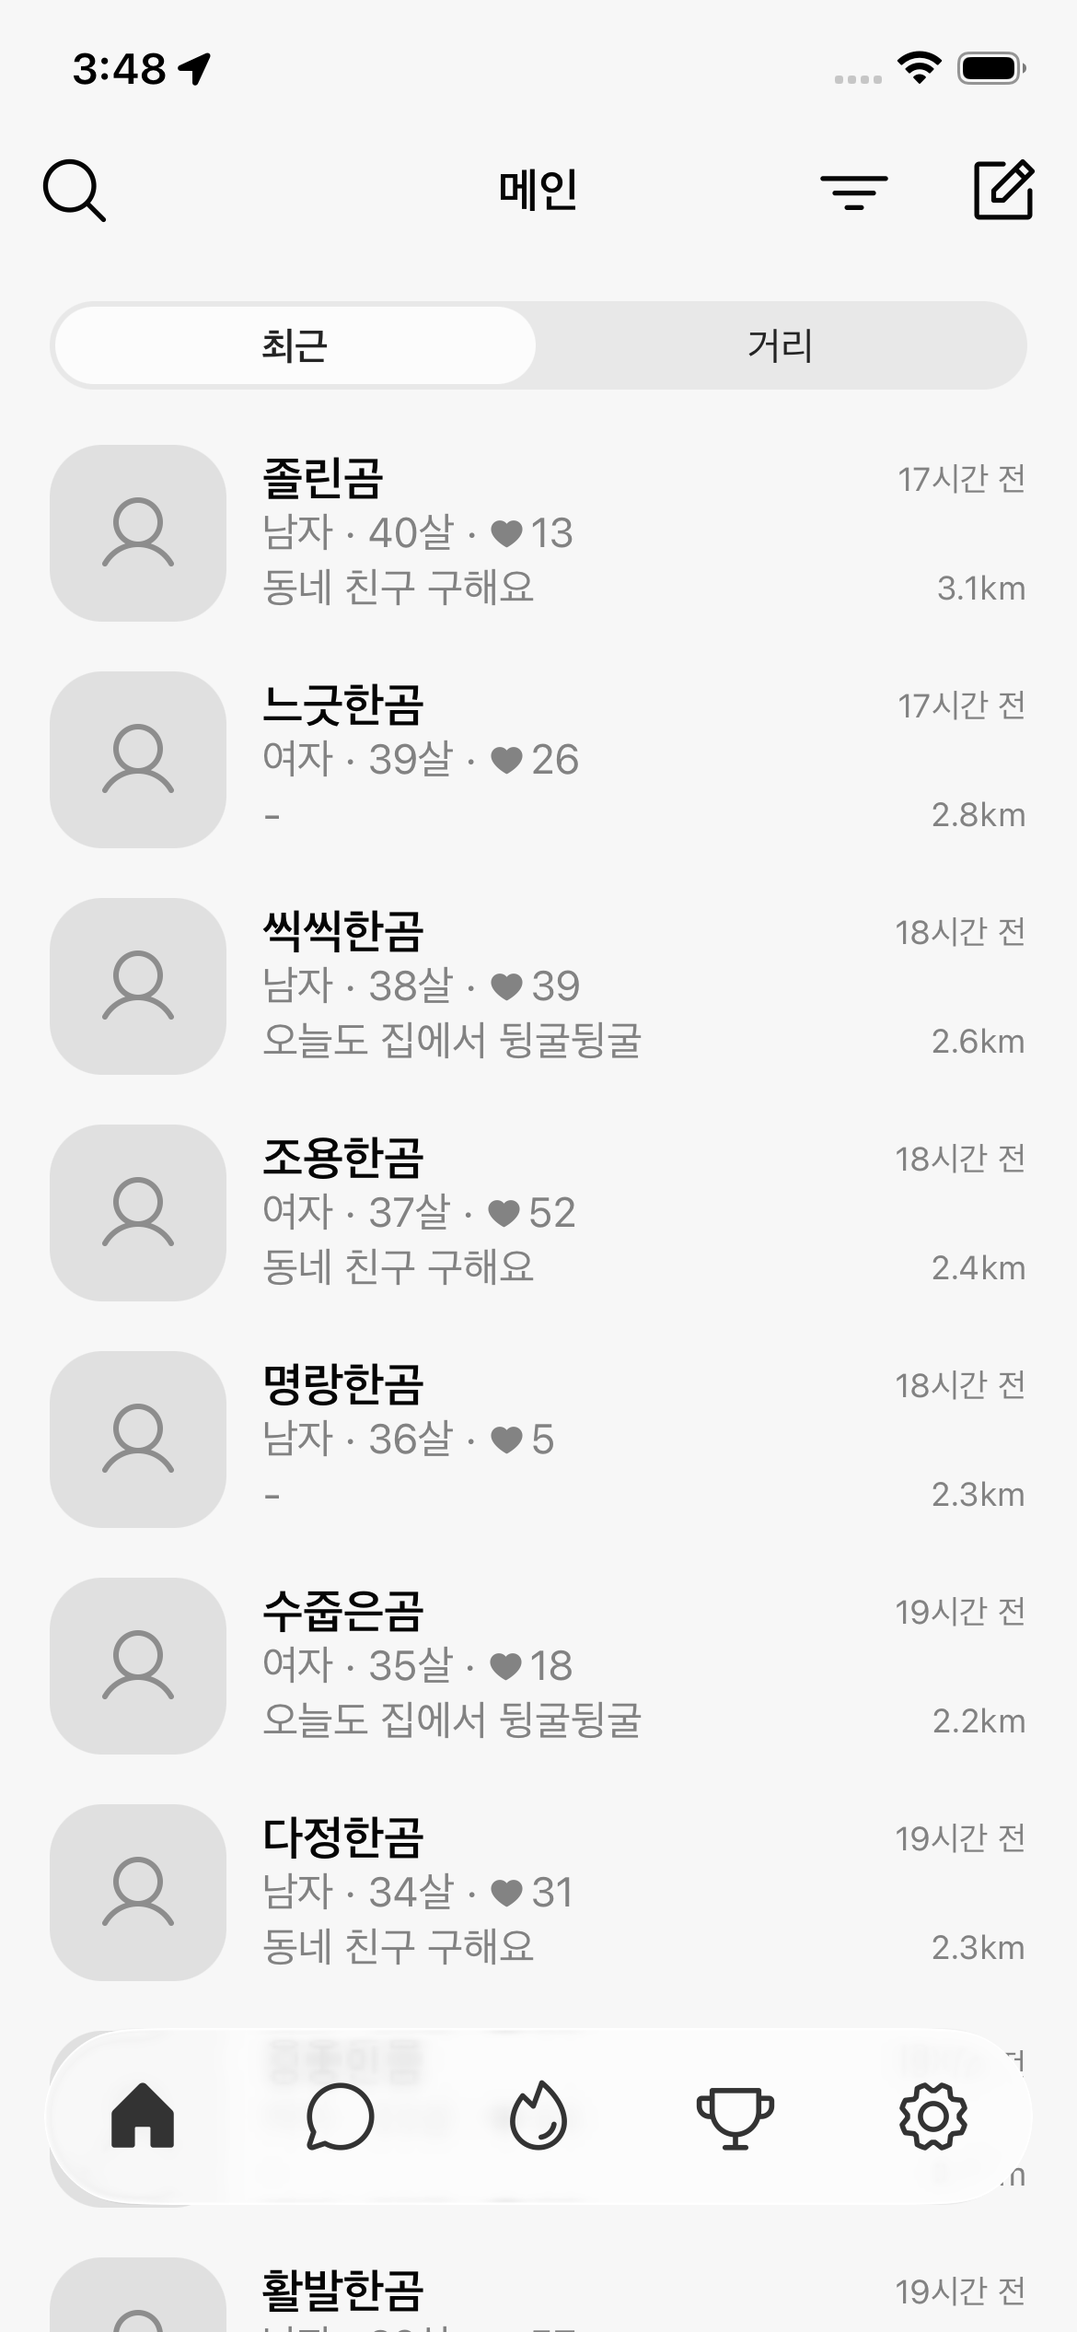
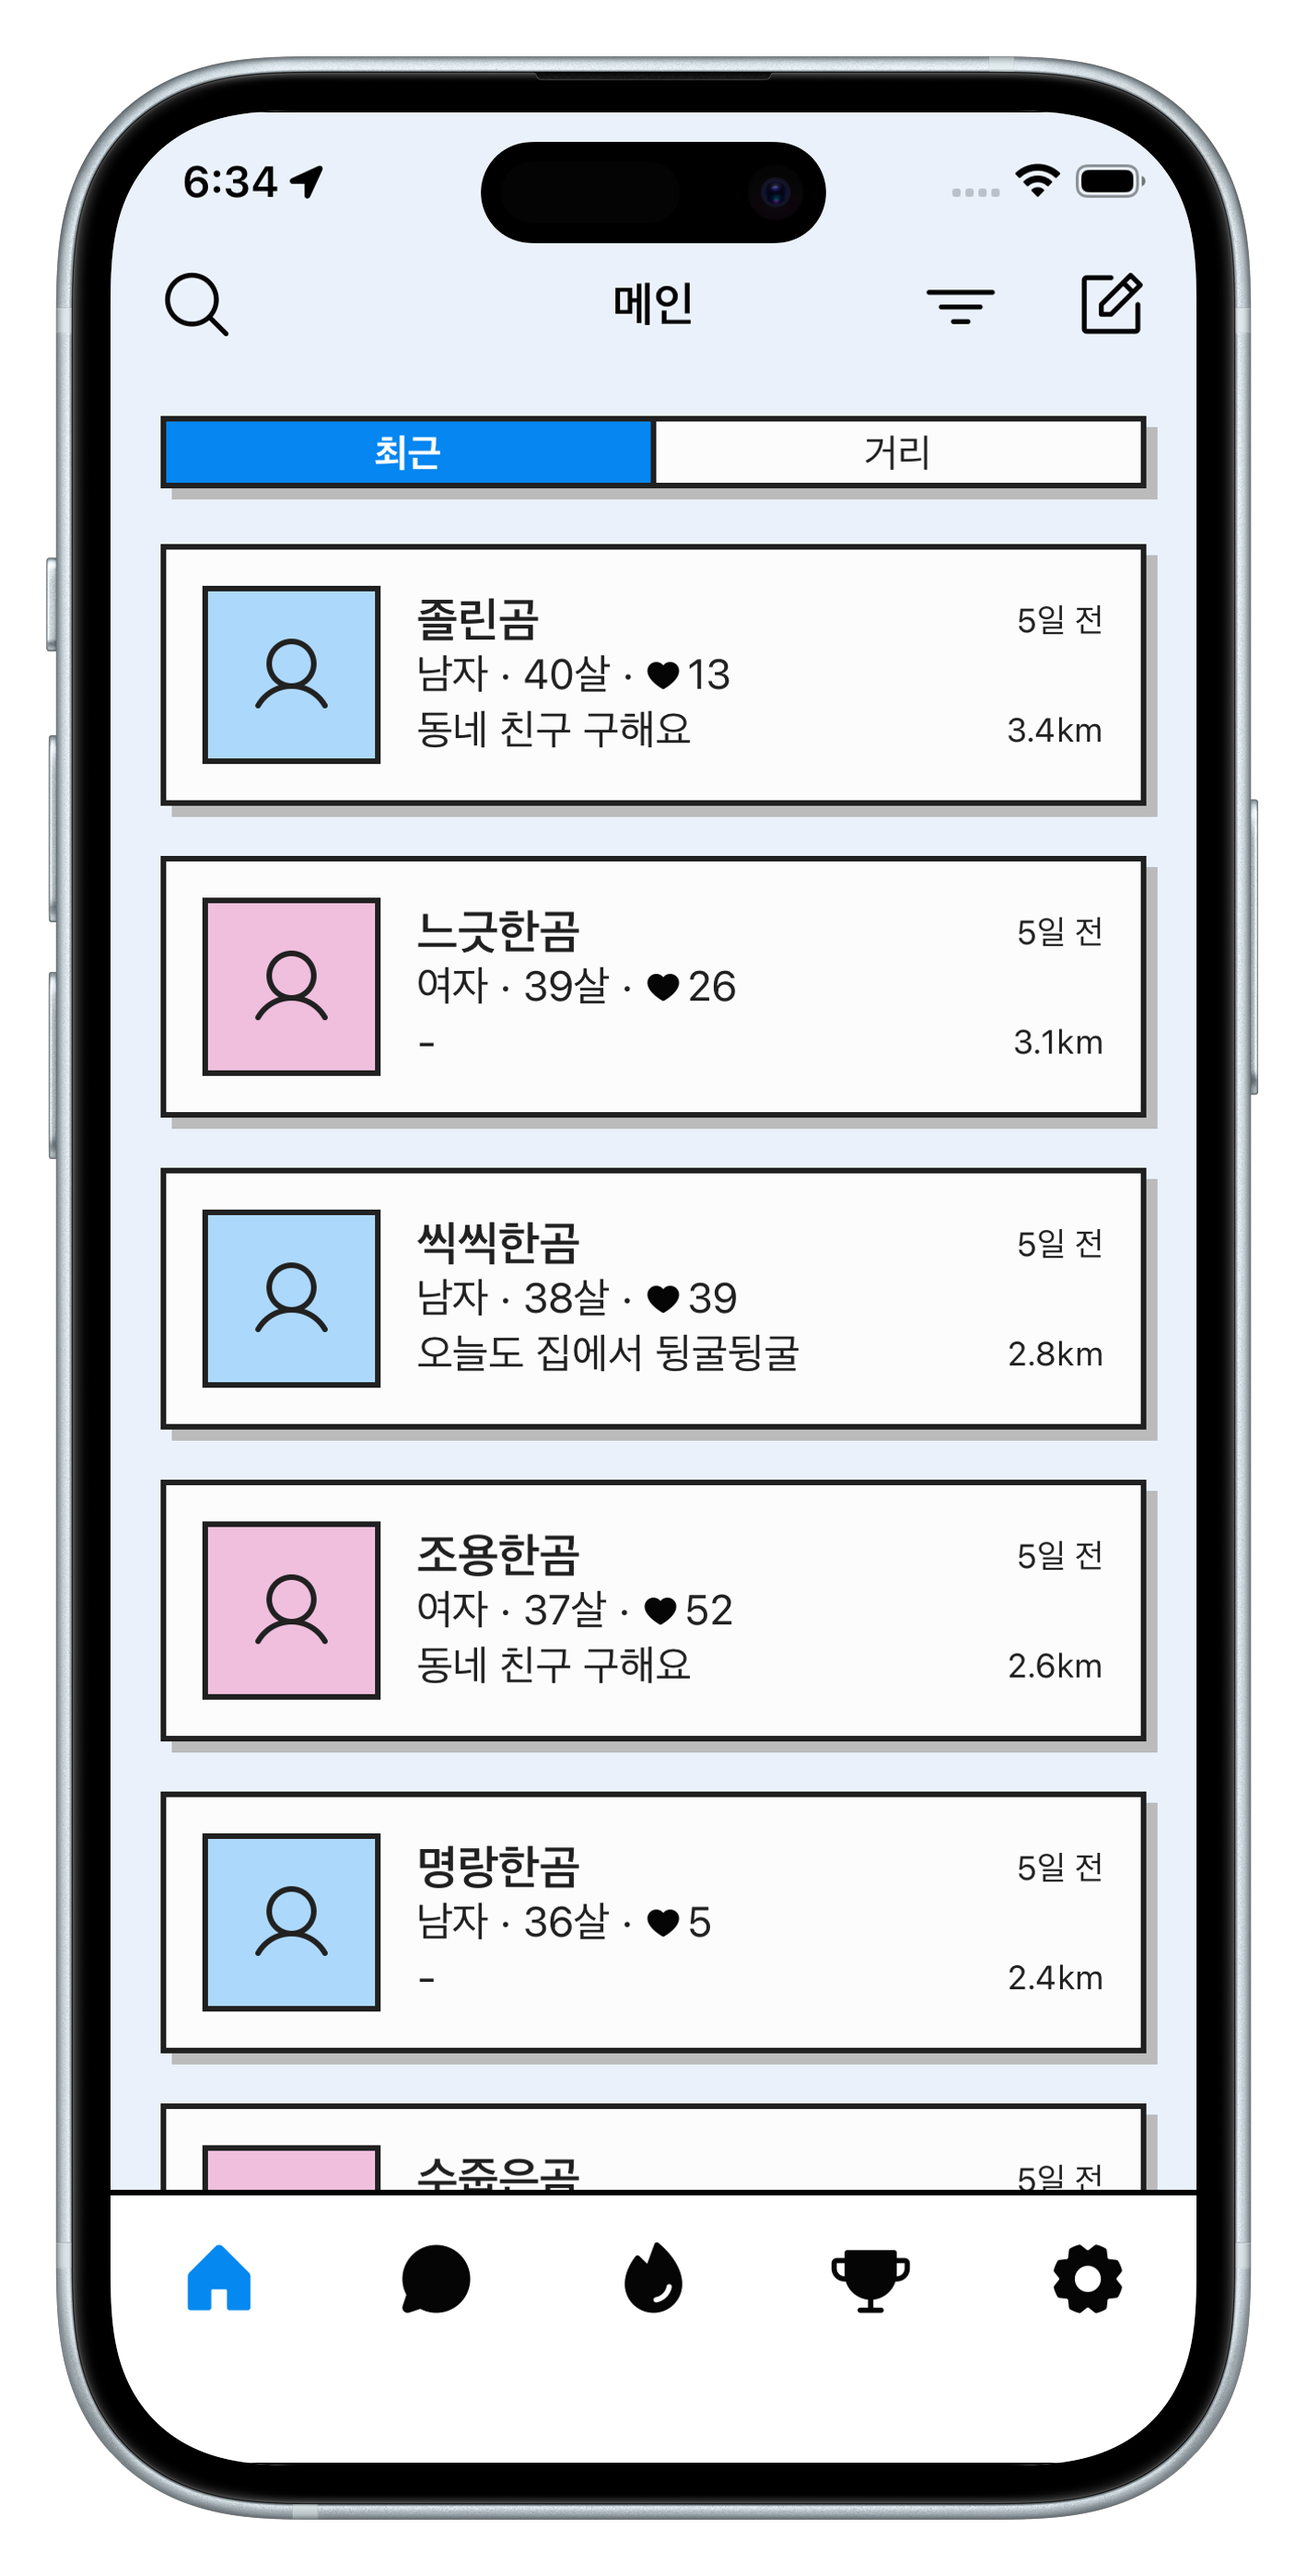
chore: 웹 문구를 다듬고 목업을 바꾼다
첫 화면 소개를 서비스가 실제로 하는 일에 맞춰 고쳐 쓴다.

약관과 개인정보 처리방침의 연령 표기에서 "만"을 뺀다. 앱과 서버가 이미
"19세 이상"으로 쓰고 있어 문구가 갈려 있었다.

나머지는 prettier 재포맷이다.

diff --git a/web/app/privacy/page.tsx b/web/app/privacy/page.tsx
@@ -40,8 +40,8 @@ export default function Privacy() {
           ]}
         />
         <p>
-          이용자가 직접 입력하지 않아도 서비스 이용 과정에서 접속 IP, 기기
-          토큰, 앱 사용 기록이 자동으로 모일 수 있습니다.
+          이용자가 직접 입력하지 않아도 서비스 이용 과정에서 접속 IP, 기기 토큰,
+          앱 사용 기록이 자동으로 모일 수 있습니다.
         </p>
       </Section>
 
@@ -58,12 +58,8 @@ export default function Privacy() {
           <li>
             삭제한 피드 게시물과 사진은 90일 뒤 저장소에서 완전히 지웁니다.
           </li>
-          <li>
-            접속 기록(IP 주소, 기기 정보)은 90일 동안 보관한 뒤 지웁니다.
-          </li>
-          <li>
-            법령에서 보관하도록 정한 정보는 그 기간 동안 따로 보관합니다.
-          </li>
+          <li>접속 기록(IP 주소, 기기 정보)은 90일 동안 보관한 뒤 지웁니다.</li>
+          <li>법령에서 보관하도록 정한 정보는 그 기간 동안 따로 보관합니다.</li>
         </ul>
       </Section>
 
@@ -75,12 +71,20 @@ export default function Privacy() {
         <Table
           head={["위탁받는 곳", "맡기는 일", "전달하는 정보"]}
           rows={[
-            ["Amazon Web Services", "서버와 데이터베이스 운영", "수집한 정보 전체"],
+            [
+              "Amazon Web Services",
+              "서버와 데이터베이스 운영",
+              "수집한 정보 전체",
+            ],
             ["Cloudflare", "사진 저장, 트래픽 처리", "사진"],
             ["솔라피", "인증번호 문자 발송", "휴대폰 번호"],
             ["OpenAI", "자기소개와 코멘트 검수", "자기소개, 코멘트"],
             ["Expo", "알림 발송", "기기 토큰"],
-            ["Google", "광고 표시, 이용 통계 분석", "광고 식별자, 앱 사용 기록"],
+            [
+              "Google",
+              "광고 표시, 이용 통계 분석",
+              "광고 식별자, 앱 사용 기록",
+            ],
           ]}
         />
         <p>
@@ -99,9 +103,9 @@ export default function Privacy() {
 
       <Section title="5. 이용자의 권리">
         <p>
-          이용자는 언제든지 자신의 개인정보를 보고, 고치고, 지우고, 처리를 멈추게
-          할 수 있습니다. 앱의 설정에서 프로필을 수정하거나 탈퇴할 수 있으며,
-          아래 연락처로 요청하셔도 됩니다.
+          이용자는 언제든지 자신의 개인정보를 보고, 고치고, 지우고, 처리를
+          멈추게 할 수 있습니다. 앱의 설정에서 프로필을 수정하거나 탈퇴할 수
+          있으며, 아래 연락처로 요청하셔도 됩니다.
         </p>
       </Section>
 
@@ -117,14 +121,16 @@ export default function Privacy() {
         <ul>
           <li>비밀번호는 되돌릴 수 없는 방식으로 암호화해 보관합니다.</li>
           <li>통신 구간은 암호화해 주고받습니다.</li>
-          <li>개인정보를 다루는 사람을 최소한으로 두고 접근 권한을 관리합니다.</li>
+          <li>
+            개인정보를 다루는 사람을 최소한으로 두고 접근 권한을 관리합니다.
+          </li>
           <li>자기소개와 코멘트는 자동으로 검수해 부적절한 내용을 가립니다.</li>
         </ul>
       </Section>
 
-      <Section title="8. 만 19세 미만의 가입 제한">
+      <Section title="8. 19세 미만의 가입 제한">
         <p>
-          서비스는 만 19세 미만은 가입할 수 없습니다. 가입할 때 출생연도를 받아
+          서비스는 19세 미만은 가입할 수 없습니다. 가입할 때 출생연도를 받아
           연령을 확인합니다.
         </p>
       </Section>

diff --git a/web/app/terms/page.tsx b/web/app/terms/page.tsx
@@ -18,7 +18,7 @@ export default function Terms() {
 
       <Section title="1. 가입">
         <ul>
-          <li>만 19세 이상만 가입할 수 있습니다.</li>
+          <li>19세 이상만 가입할 수 있습니다.</li>
           <li>본인의 휴대폰 번호로 인증해야 가입이 완료됩니다.</li>
           <li>한 사람이 여러 계정을 만들 수 없습니다.</li>
           <li>
@@ -45,9 +45,9 @@ export default function Terms() {
 
       <Section title="3. 금지하는 행위">
         <p>
-          서비스는 이용자를 보호하기 위해 부적절한 콘텐츠에 대해 무관용
-          원칙으로 대응합니다. 아래 행위를 하면 사전 통보 없이 게시물을 가리거나
-          이용을 정지할 수 있고, 반복되면 계정을 지울 수 있습니다.
+          서비스는 이용자를 보호하기 위해 부적절한 콘텐츠에 대해 무관용 원칙으로
+          대응합니다. 아래 행위를 하면 사전 통보 없이 게시물을 가리거나 이용을
+          정지할 수 있고, 반복되면 계정을 지울 수 있습니다.
         </p>
         <ul>
           <li>성적인 내용을 올리거나 성매매를 암시하는 행위</li>
@@ -71,9 +71,7 @@ export default function Terms() {
             자기소개와 코멘트는 자동으로 검수하며, 부적절하다고 판단되면 다른
             이용자에게 보이지 않도록 가립니다.
           </li>
-          <li>
-            신고가 들어온 게시물과 대화는 확인 후 24시간 안에 조치합니다.
-          </li>
+          <li>신고가 들어온 게시물과 대화는 확인 후 24시간 안에 조치합니다.</li>
           <li>
             법령을 어기거나 다른 사람의 권리를 침해하는 게시물은 사전 통보 없이
             지울 수 있습니다.
@@ -106,17 +104,15 @@ export default function Terms() {
 
       <Section title="7. 이용 제한">
         <p>
-          약관을 어기면 아래와 같이 단계적으로 제한합니다. 사안이 무거우면 곧바로
-          영구 정지할 수 있습니다.
+          약관을 어기면 아래와 같이 단계적으로 제한합니다. 사안이 무거우면
+          곧바로 영구 정지할 수 있습니다.
         </p>
         <ul>
           <li>게시물 가림 또는 삭제</li>
           <li>일정 기간 이용 정지</li>
           <li>영구 이용 정지</li>
         </ul>
-        <p>
-          제한 사유에 이의가 있으면 아래 연락처로 문의하실 수 있습니다.
-        </p>
+        <p>제한 사유에 이의가 있으면 아래 연락처로 문의하실 수 있습니다.</p>
       </Section>
 
       <Section title="8. 탈퇴">
@@ -134,8 +130,8 @@ export default function Terms() {
             않습니다.
           </li>
           <li>
-            이용자가 올린 정보의 정확성은 보장하지 않습니다. 상대방을 만나기 전에
-            신중히 판단하시기 바랍니다.
+            이용자가 올린 정보의 정확성은 보장하지 않습니다. 상대방을 만나기
+            전에 신중히 판단하시기 바랍니다.
           </li>
           <li>
             천재지변, 통신 장애 등 어쩔 수 없는 사유로 서비스를 제공하지 못하는

diff --git a/web/app/page.tsx b/web/app/page.tsx
@@ -16,11 +16,13 @@ export default function Home() {
             priority
             className="size-14"
           />
-          <h1 className="text-3xl font-bold tracking-tight text-accent">집콕</h1>
+          <h1 className="text-3xl font-bold tracking-tight text-accent">
+            집콕
+          </h1>
           <p className="text-base leading-7 font-medium">
-            집에서 보내는 하루도
+            가까운 이웃의 프로필을 구경하고
             <br />
-            동네 친구와 함께
+            쪽지 한 통으로 가볍게 말을 걸어 보세요.
           </p>
         </div>
 
